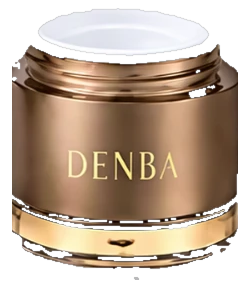
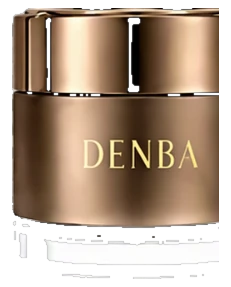
商品画像を蓋付き(キャップ・リッド装着)版に差し替え

diff --git a/index.html b/index.html
@@ -307,7 +307,7 @@
 
   <div class="line-grid">
     <a href="lotion.html" class="product-card">
-      <div class="product-img"><img src="images/bottle-lotion.png?v4" alt="ウォーターリバイタル ローション" loading="lazy"></div>
+      <div class="product-img"><img src="images/bottle-lotion.png?v5" alt="ウォーターリバイタル ローション" loading="lazy"></div>
       <div class="product-info">
         <div class="product-name" data-i18n="p1_name">ウォーターリバイタル ローション</div>
         <div class="product-type" data-i18n="p1_type">化粧水</div>
@@ -315,7 +315,7 @@
       </div>
     </a>
     <a href="emulsion.html" class="product-card">
-      <div class="product-img"><img src="images/bottle-emulsion.png?v4" alt="ハリ弾力ケア エマルジョン" loading="lazy"></div>
+      <div class="product-img"><img src="images/bottle-emulsion.png?v5" alt="ハリ弾力ケア エマルジョン" loading="lazy"></div>
       <div class="product-info">
         <div class="product-name" data-i18n="p2_name">ハリ弾力ケア エマルジョン</div>
         <div class="product-type" data-i18n="p2_type">乳液</div>
@@ -323,7 +323,7 @@
       </div>
     </a>
     <a href="cream.html" class="product-card">
-      <div class="product-img"><img src="images/bottle-cream.png?v4" alt="ハリ弾力ケア クリーム" loading="lazy"></div>
+      <div class="product-img"><img src="images/bottle-cream.png?v5" alt="ハリ弾力ケア クリーム" loading="lazy"></div>
       <div class="product-info">
         <div class="product-name" data-i18n="p3_name">ハリ弾力ケア クリーム</div>
         <div class="product-type" data-i18n="p3_type">クリーム</div>
@@ -331,7 +331,7 @@
       </div>
     </a>
     <a href="serum.html" class="product-card">
-      <div class="product-img"><img src="images/bottle-serum.png?v4" alt="マルチディメンション エイジングケア セラム" loading="lazy"></div>
+      <div class="product-img"><img src="images/bottle-serum.png?v5" alt="マルチディメンション エイジングケア セラム" loading="lazy"></div>
       <div class="product-info">
         <div class="product-name" data-i18n="p4_name">マルチディメンション エイジングケア セラム</div>
         <div class="product-type" data-i18n="p4_type">美容液</div>

diff --git a/products.html b/products.html
@@ -599,7 +599,7 @@
 <!-- LINEUP INDEX -->
 <div class="lineup">
   <a class="lineup-item" href="lotion.html">
-    <img class="lineup-img" src="images/bottle-lotion.png?v4" alt="ウォーターリバイタル ローション" loading="lazy">
+    <img class="lineup-img" src="images/bottle-lotion.png?v5" alt="ウォーターリバイタル ローション" loading="lazy">
     <span class="lineup-num">No. 01</span>
     <span class="lineup-name" data-i18n="p1_name">Water Revital<br>Lotion</span>
     <span class="lineup-jp" data-i18n="p1_type">化粧水</span>
@@ -607,7 +607,7 @@
     <span class="lineup-arrow">→</span>
   </a>
   <a class="lineup-item" href="emulsion.html">
-    <img class="lineup-img" src="images/bottle-emulsion.png?v4" alt="ハリ弾力ケア エマルジョン" loading="lazy">
+    <img class="lineup-img" src="images/bottle-emulsion.png?v5" alt="ハリ弾力ケア エマルジョン" loading="lazy">
     <span class="lineup-num">No. 02</span>
     <span class="lineup-name" data-i18n="p2_name">Firm & Glow<br>Emulsion</span>
     <span class="lineup-jp" data-i18n="p2_type">乳液</span>
@@ -615,7 +615,7 @@
     <span class="lineup-arrow">→</span>
   </a>
   <a class="lineup-item" href="cream.html">
-    <img class="lineup-img" src="images/bottle-cream.png?v4" alt="ハリ弾力ケア クリーム" loading="lazy">
+    <img class="lineup-img" src="images/bottle-cream.png?v5" alt="ハリ弾力ケア クリーム" loading="lazy">
     <span class="lineup-num">No. 03</span>
     <span class="lineup-name" data-i18n="p3_name">Firm &amp; Care<br>Cream</span>
     <span class="lineup-jp" data-i18n="p3_type">クリーム</span>
@@ -623,7 +623,7 @@
     <span class="lineup-arrow">→</span>
   </a>
   <a class="lineup-item" href="serum.html">
-    <img class="lineup-img" src="images/bottle-serum.png?v4" alt="マルチディメンション エイジングケア セラム" loading="lazy">
+    <img class="lineup-img" src="images/bottle-serum.png?v5" alt="マルチディメンション エイジングケア セラム" loading="lazy">
     <span class="lineup-num">No. 04</span>
     <span class="lineup-name" data-i18n="p4_name">Multi-Dimension<br>Aging Care Serum</span>
     <span class="lineup-jp" data-i18n="p4_type">美容液</span>

diff --git a/lotion.html b/lotion.html
@@ -611,7 +611,7 @@
            <img src="images/product-lotion.jpg" alt="Water Revital Lotion"
                 style="width:100%;height:100%;object-fit:cover;position:absolute;inset:0;">
       -->
-      <img src="images/bottle-lotion.png?v4" alt="ウォーターリバイタル ローション"
+      <img src="images/bottle-lotion.png?v5" alt="ウォーターリバイタル ローション"
            style="max-height:76%; max-width:58%; object-fit:contain; filter:drop-shadow(0 26px 40px rgba(120,92,42,0.28));">
 
     </div>

diff --git a/serum.html b/serum.html
@@ -607,7 +607,7 @@
 
   <div class="product-body">
     <div class="product-image-zone img-serum">
-      <img src="images/bottle-serum.png?v4" alt="マルチディメンション エイジングケア セラム"
+      <img src="images/bottle-serum.png?v5" alt="マルチディメンション エイジングケア セラム"
            style="max-height:74%; max-width:56%; object-fit:contain; filter:drop-shadow(0 26px 44px rgba(0,0,0,0.5));">
     </div>
 

diff --git a/emulsion.html b/emulsion.html
@@ -607,7 +607,7 @@
 
   <div class="product-body">
     <div class="product-image-zone img-emulsion">
-      <img src="images/bottle-emulsion.png?v4" alt="ハリ弾力ケア エマルジョン"
+      <img src="images/bottle-emulsion.png?v5" alt="ハリ弾力ケア エマルジョン"
            style="max-height:76%; max-width:58%; object-fit:contain; filter:drop-shadow(0 26px 40px rgba(120,92,42,0.28));">
     </div>
 

diff --git a/cream.html b/cream.html
@@ -607,7 +607,7 @@
 
   <div class="product-body">
     <div class="product-image-zone img-cream">
-      <img src="images/bottle-cream.png?v4" alt="ハリ弾力ケア クリーム"
+      <img src="images/bottle-cream.png?v5" alt="ハリ弾力ケア クリーム"
            style="max-height:70%; max-width:60%; object-fit:contain; filter:drop-shadow(0 26px 40px rgba(120,92,42,0.28));">
     </div>
 
